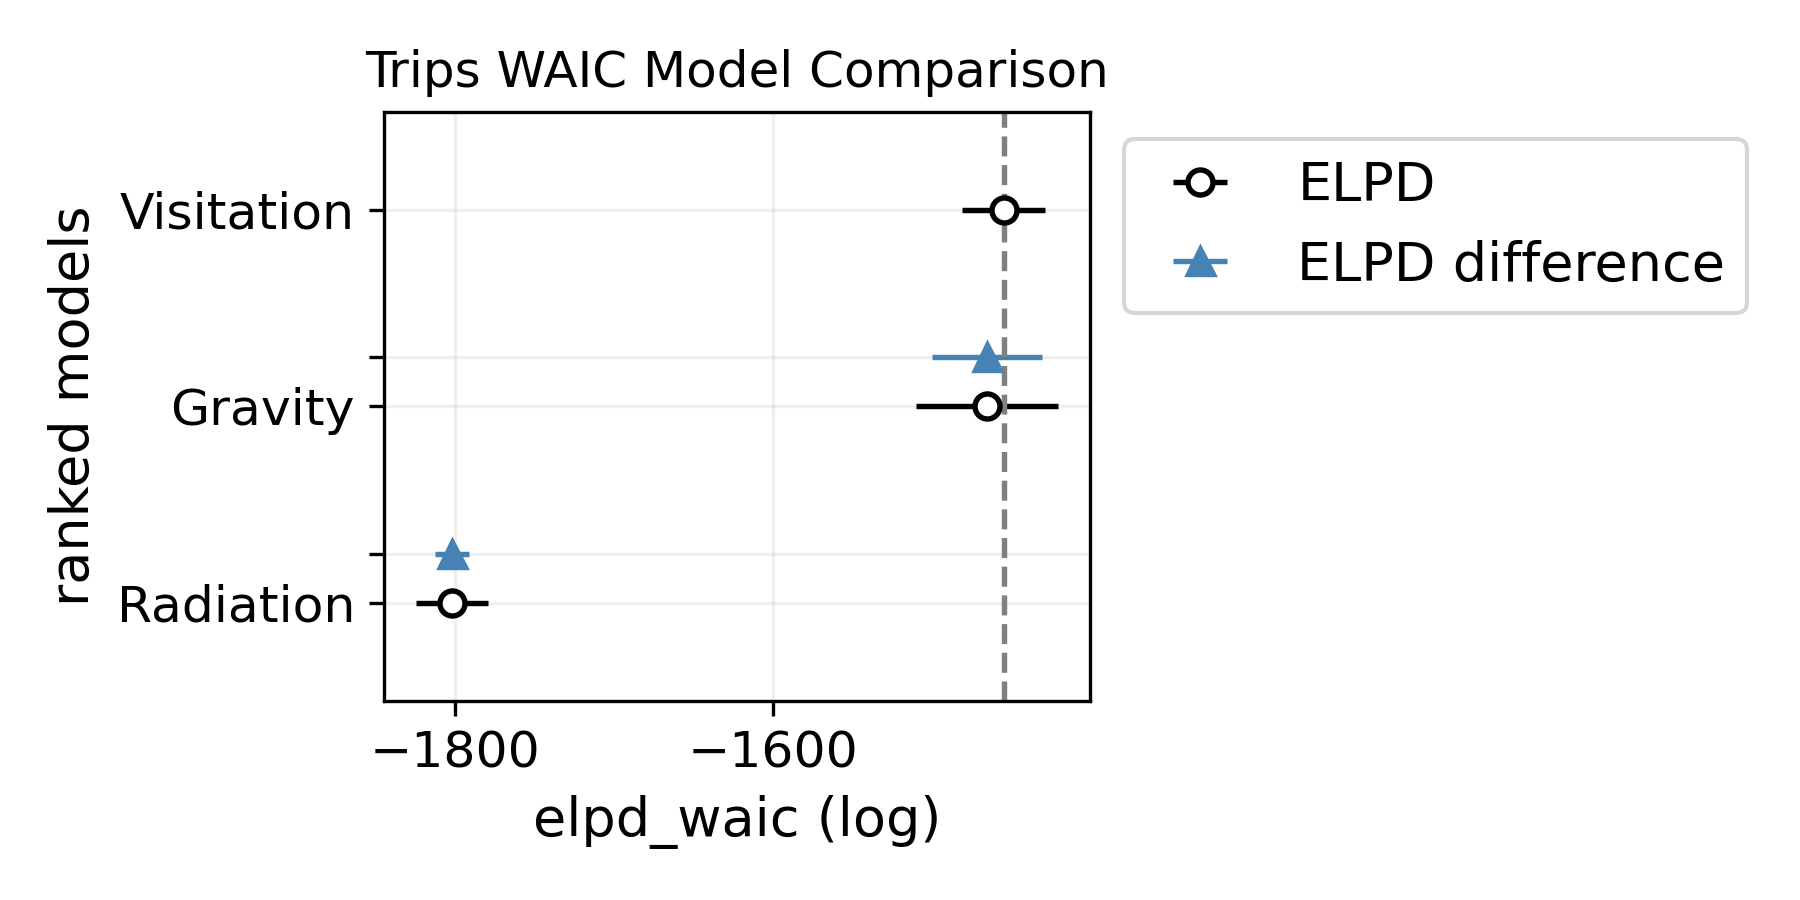
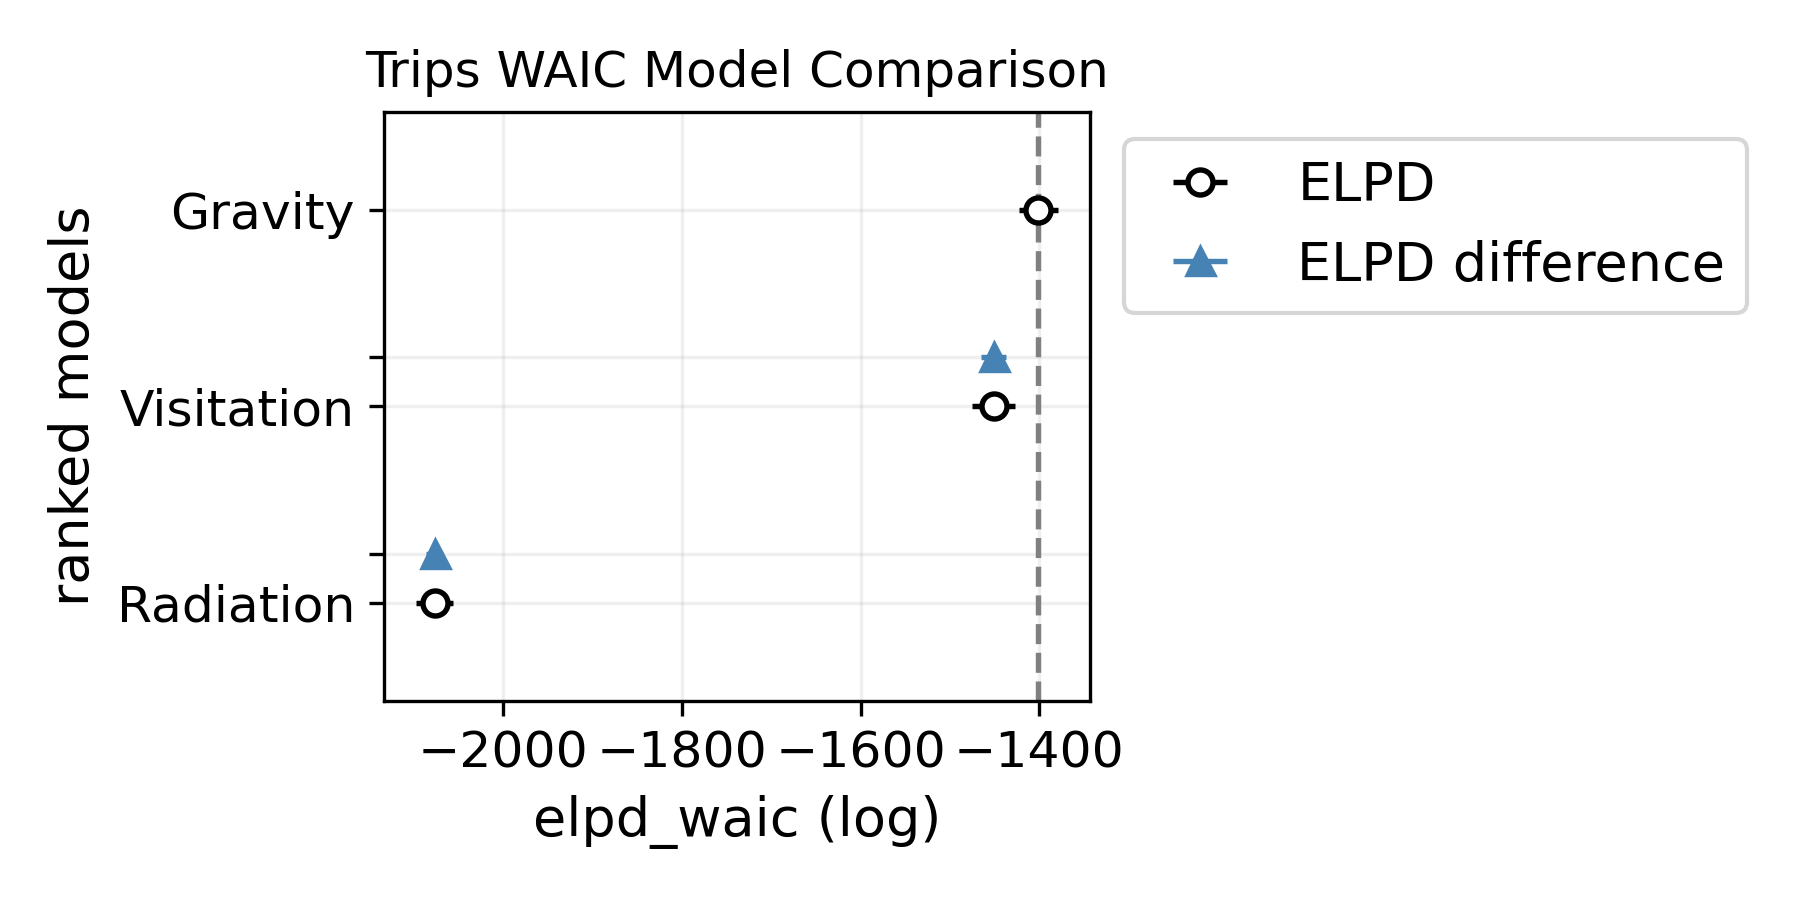
fix madrid index error

diff --git a/models_bayesian.py b/models_bayesian.py
@@ -29,9 +29,6 @@ mad = gdf[gdf.ID.str.startswith("28")] #Madrid municipios start with 28
 
 data = pd.read_csv("data_jan_ave.csv")
 
-Tdf_obs = pd.pivot_table(data, index='origen', columns='destino', values='viajes')/31
-madri_idx = Tdf_obs.columns.get_loc(madri)
-
 data = data[data.destino==madri] #data.groupby(["origen", "destino"], as_index=False).mean()
 data['ID'] = data.origen
 
@@ -42,10 +39,12 @@ pob = pob.drop_duplicates('municipio')
 
 data = pd.merge(data, pob)
 
+madri_idx = data[data.origen==madri].index[0]
+
 #################### Observed Data ##############################
 ### Plot Survey data observed
-#Tdf_obs = data.groupby(['origen', 'destino']).mean()
-
+Tdf_obs = data.groupby(['origen', 'destino']).mean()
+Tdf_obs = pd.pivot_table(data, index='origen', columns='destino', values='viajes').T
 Ndf = pd.DataFrame({"ID":Tdf_obs[madri].index, madri:Tdf_obs[madri].values})
 Ndf = Ndf.replace(np.nan,0)
 madg = pd.merge(mad,Ndf)
@@ -194,7 +193,7 @@ Sij = np.array(Sij)
 ## Radiation model for number of trips
 with pm.Model() as mod_rv:
     #Ti = pm.Uniform("Ti", 1e3, 1e5, shape=len(Vij_obs)) 
-    Ti = pm.Wald("Ti", 600000, 100000, shape=len(Vij_obs)) #pm.Exponential("Ti", 0.00001, shape=len(Vij_obs))
+    Ti = pm.Wald("Ti", 50000, 10000, shape=len(Vij_obs)) #pm.Exponential("Ti", 0.00001, shape=len(Vij_obs))
     p_num = Mi*Nj
     p_den = (Mi + Sij)*(Mi + Nj + Sij)
     v = pm.Deterministic("v", Ti*(p_num/p_den))
@@ -237,7 +236,6 @@ SSI_v_rad = 2*np.sum(np.minimum(Vij_obs_s, Vij_rad_m))/(np.sum(Vij_obs_s) + np.s
 Qij_pos = pos_r_w['q'].values#*T #pos_v['q'].values.mean(axis=1)
 qij_mean = Qij_pos.mean(axis=1)
 qij_h5, qij_h95 = az.hdi(Qij_pos.T, hdi_prob=0.9).T
-
 Qij_rad = pd.DataFrame({"mean_q":qij_mean, "h5_q":qij_h5, "h95_q":qij_h95})
 Qij_rad = Qij_rad.sort_values(by="mean_q")
 Qij_rad_m = Qij_rad['mean_q'].values

diff --git a/visitation_inflow_example.py b/visitation_inflow_example.py
@@ -39,43 +39,7 @@ pob = pob[pob.municipio.isin(data.ID.unique())]
 pob = pob.drop_duplicates('municipio') 
 
 data = pd.merge(data, pob)
-
-#################### Observed Data ##############################
-### Plot Survey data observed
-#Tdf_obs = data.groupby(['origen', 'destino']).mean()
-Tdf_obs = pd.pivot_table(data, index='origen', columns='destino', values='viajes')/31
-madri_idx = Tdf_obs.columns.get_loc(madri)
-Ndf = pd.DataFrame({"ID":Tdf_obs[madri].index, madri:Tdf_obs[madri].values})
-Ndf = Ndf.replace(np.nan,0)
-madg = pd.merge(mad,Ndf)
-madg = madg.sort_values(by=madri, ascending=False)
-madg.reset_index(inplace=True, drop=True)
-
-max_val = int(max(madg[madri]))
-mid_val = int(np.median(madg[madri]))
-min_val = int(min(madg[madri]))
-
-colors = np.array([mpl.cm.get_cmap('gist_heat')(x/len(madg)) for x in range(len(madg))])
-sm = plt.cm.ScalarMappable(cmap=mpl.cm.get_cmap('gist_heat'))
-
-ch_map = mad.plot(figsize=(10,20), color="tan", alpha=0.2, edgecolor="k")
-for c in range(len(madg)):
-    #ch_map.set_facecolor("grey")
-    muni_dest = madg.ID[c]
-    orig = madri
-    dest_coord = mad[mad.ID==muni_dest].coords.values[0]
-    orig_coord = mad[mad.ID==orig].coords.values[0]
-    x = (dest_coord[0], orig_coord[0])
-    y = (dest_coord[1], orig_coord[1])
-    ch_map.plot(x,y, color=colors[c])  
-cbar = plt.colorbar(sm,fraction=0.005, pad=0.001)
-cbar.set_ticklabels([min_val,mid_val,max_val])
-plt.title("Observed Data: Average Daily Travellers to Central Madrid Jan 2022", fontsize=18)
-plt.axis('off')
-plt.tight_layout()
-plt.savefig("plot_madrid_municipio_observed.png", dpi=300, bbox_inches='tight', pad_inches=0.1)
-plt.show()
-plt.close()
+madri_idx = data[data.origen==madri].index[0]
 
 
 ###############################################################################
